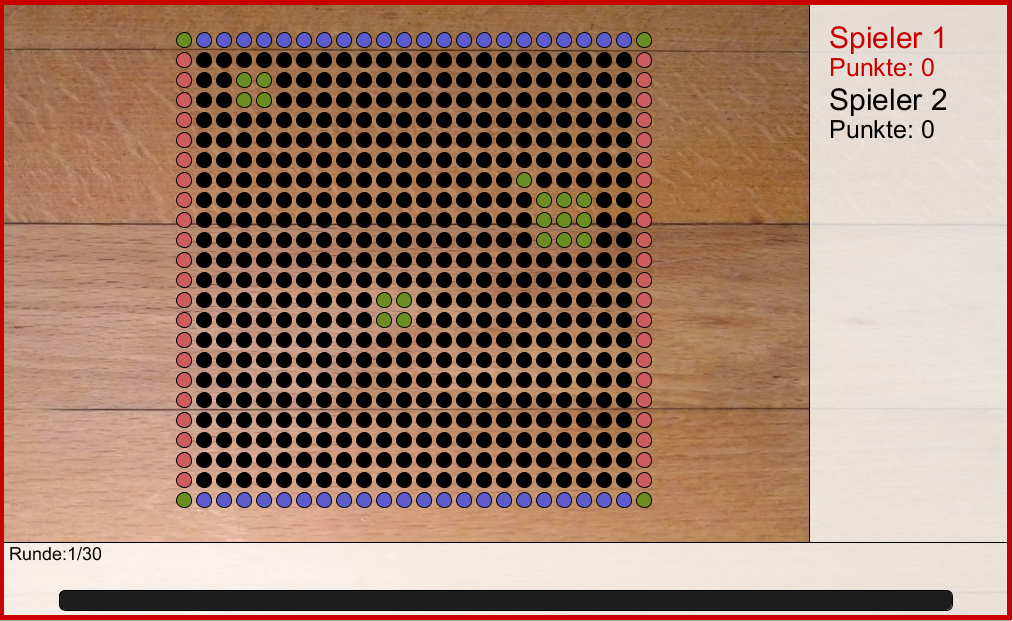
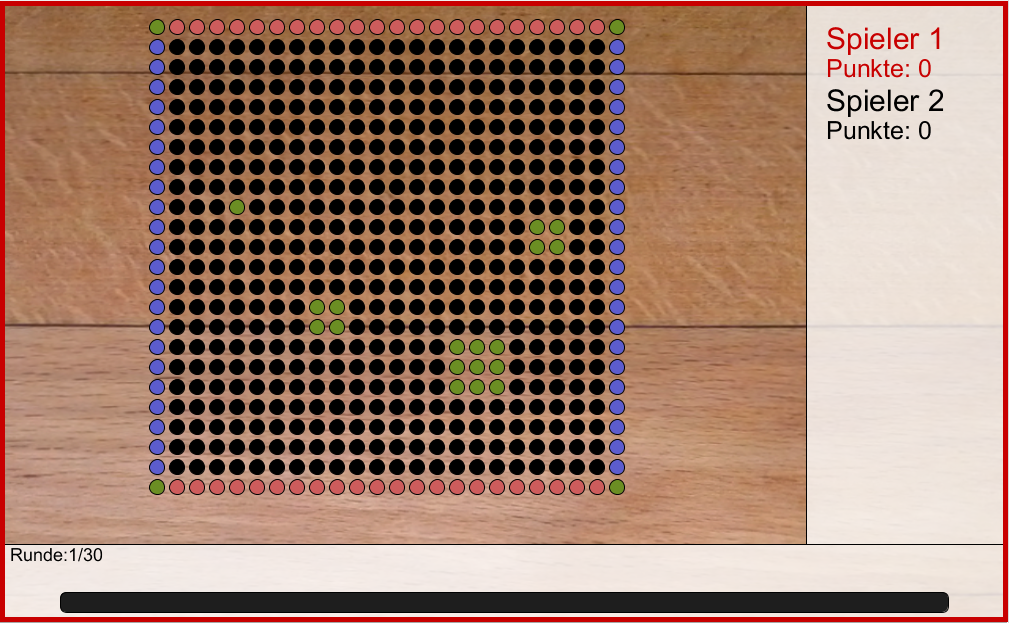
Spielregeln an neues Spielfeld angepasst

diff --git a/documentation/twixt/Spielregeln/main.tex b/documentation/twixt/Spielregeln/main.tex
@@ -69,9 +69,10 @@ tun.
 \section{Das Spielbrett}
 Das Spielbrett ist im Titelbild zu sehen und besteht aus 576 Feldern.
 Mit Ausnahme der Sumpffelder (grün) kann auf jedes dieser Felder genau 
-ein Strommast gestellt werden. Allerdings kann Rot keine Strommasten auf 
-die oberen und unteren Randfelder (blau) stellen und Blau nicht auf die linken 
-und rechten Randfelder (rot). In den 4 Ecken befindet sich jeweils ein Sumpffeld. 
+ein Strommast gestellt werden. Allerdings kann Blau keine Strommasten auf 
+die oberen und unteren Randfelder (rot) stellen und Rot nicht auf die linken 
+und rechten Randfelder (blau). In den 4 Ecken befindet sich jeweils ein
+Sumpffeld.
 Zusätzlich werden vor Spielbeginn 4 Sümpfe zufällig generiert. Dabei handelt sich um 
 ein einzelnes Sumpffeld, zwei mittelgroße Sümpfe mit jeweils 2x2 Sumpffeldern 
 sowie einen großen Sumpf mit 3x3 Sumpffeldern. Keines der zufällig generierten Sumpffelder 
@@ -90,8 +91,8 @@ Zu Beginn des Spiels setzt zunächst Rot einen neuen Strommast auf ein
 freies Feld, also ein Feld, das weder ein Sumpffeld noch ein Feld der
 gegnerischen Farbe ist und auf dem sich noch kein Strommast befindet. 
 Danach tut Blau dasselbe, während beide versuchen,
-ihre beiden Farbzonen (farbig markierte Felder; für Rot sind diese links und
-rechts, für Blau  oben und unten) mit einer zusammenhängenden Leitung zu
+ihre beiden Farbzonen (farbig markierte Felder; für Rot sind diese oben und
+unten, für Blau  links und rechts) mit einer zusammenhängenden Leitung zu
 verbinden.
 Bei einem Zug ist es möglich, dass sich dadurch eine oder mehrere
 neue Leitungen bilden. Eine neue Leitung bildet sich, wenn sich ein eigener
@@ -108,13 +109,13 @@ Das Spiel endet, sobald es einer der Spieler geschafft hat, seine beiden
 Farbzonen mit einer zusammenhängenden Leitung zu verbinden, spätestens jedoch
 nach 30 Runden.
 Für die Berechnung der Punkte von Rot ist allein diejenige zusammenhängende
-Leitung von Rot entscheidend, welche in horizontaler Richtung die längste Ausdehnung
-hat. Die Ausdehnung dieser Leitung in horizontaler Richtung ergibt die Punktezahl
-für Rot. Entsprechend zählt für Blau die vertikale Ausdehnung.
-In dem in Abbildung 2 gezeigten Beispiel erhält Rot deshalb 4 Punkte
-(die kürzere Leitung zählt nicht) und Blau 8 (es zählt ausschließlich
-die vertikale Richtung). Das Spiel gewinnt derjenige Spieler, der am Spielende die
-meisten Punkte hat.
+Leitung von Rot entscheidend, welche in vertikaler Richtung die längste
+Ausdehnung hat. Die Ausdehnung dieser Leitung in vertikaler Richtung ergibt
+die Punktezahl für Rot. Entsprechend zählt für Blau die horizontale Ausdehnung.
+In dem in Abbildung 2 gezeigten Beispiel erhält Rot deshalb 8 Punkte (es zählt ausschließlich
+die vertikale Richtung)
+und Blau 4 (die kürzere Leitung zählt nicht). Das Spiel gewinnt derjenige Spieler, der am Spielende
+die meisten Punkte hat.
 Ist die so ermittelte Punktzahl gleich, ist das Ergebnis unentschieden.
 
 \section{Die graphische Benutzeroberfläche}
@@ -134,7 +135,7 @@ Ist die so ermittelte Punktzahl gleich, ist das Ergebnis unentschieden.
 	%% wie ist die Benutzeroberfläche?
 \begin{compactenum}[A)] 
 \item Das Spielbrett
-\item Die Spielfortschrittsanzeige  
+\item Die Spielfortschrittsanzeige 
 \item Der Punktestand der Spieler
 	\end{compactenum}
 	
@@ -156,8 +157,6 @@ folgende Einstellungen zur Verfügung:
 Spiels, ist aber rechenintensiv, diese hat Einstellungen von 0 bis 8 und ist
 standardmäßig auf 4 gestellt.
 Auf sehr langsamen Rechnern sollte sie daher auf 0 gestellt werden. Die Option
-\textbf{Animationen} im Einstellungsmenü ist nur für andere Spiele von
-Bedeutung und wird bei \emph{Twixt} ignoriert.\\
 Die \textbf{Debugansicht} zeigt Debug-Hilfestellungen zu einzelnen Zügen und
 die Framerate an.
 Diese Hilfestellungen sind Texte, die ein Spielclient einem Zug beifügen kann, den er
